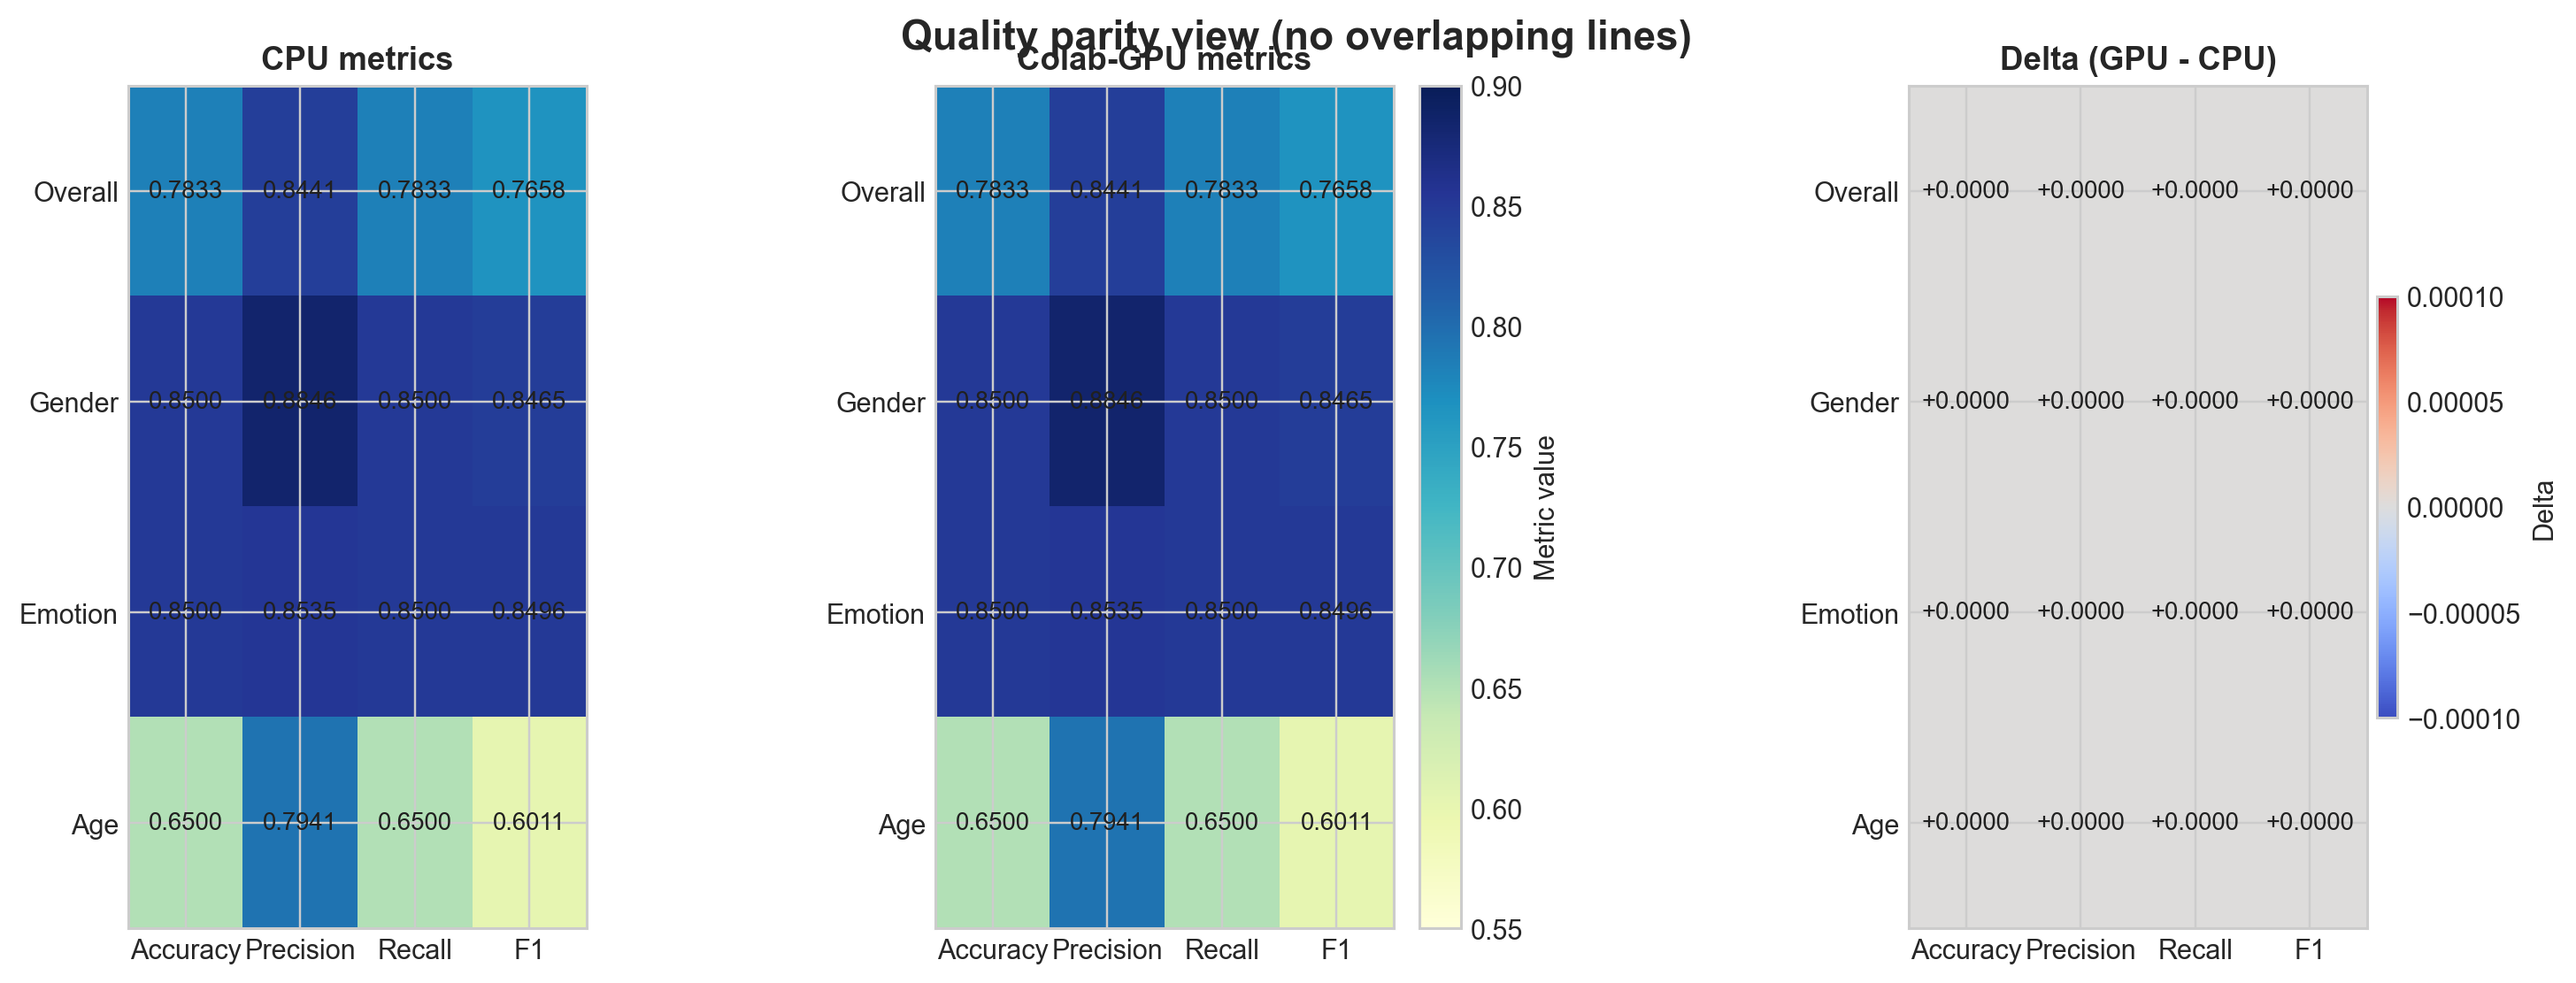
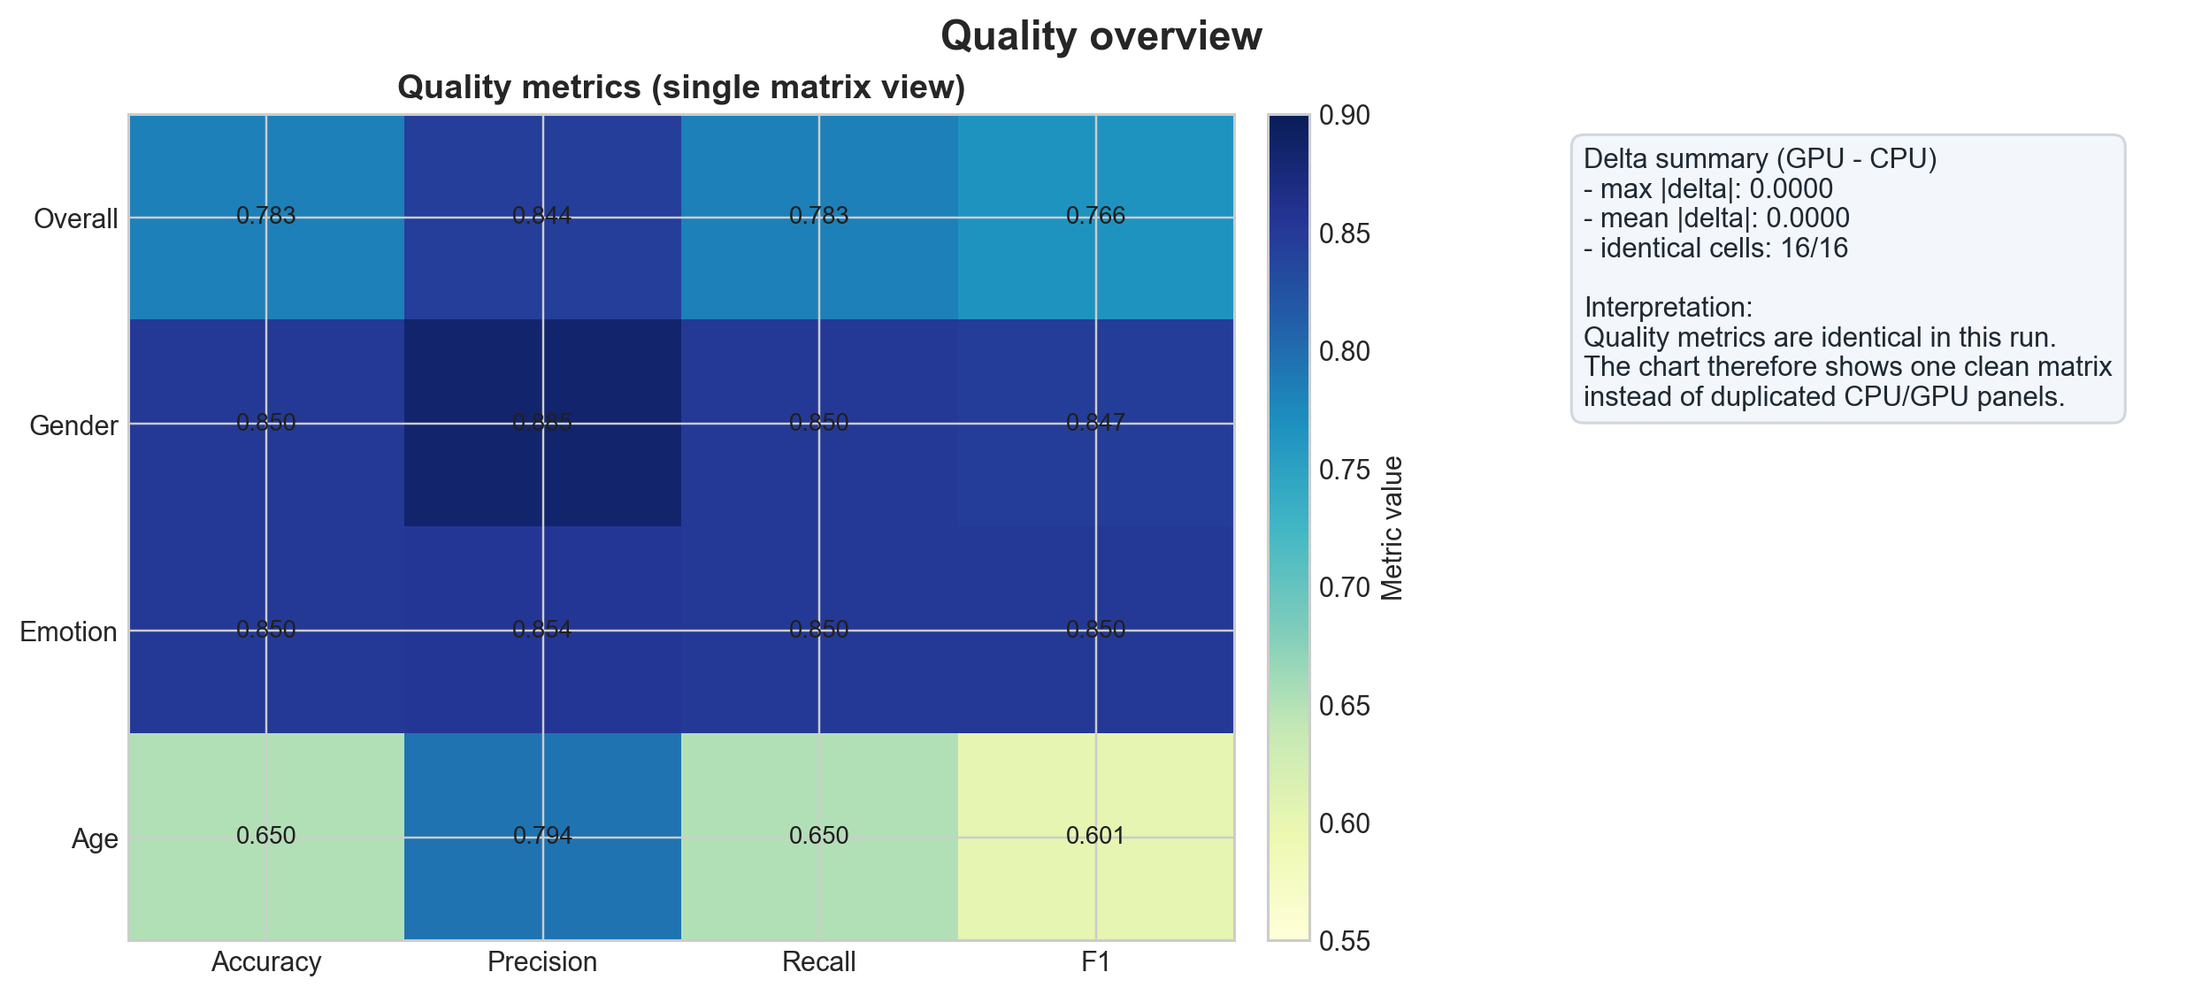
Polish comparison visuals and standardize project text to English.
Simplify the quality panel to remove redundant zero-delta clutter and update report/notebook wording for presentation clarity.

diff --git a/results/generate_comparison_charts.py b/results/generate_comparison_charts.py
@@ -5,7 +5,6 @@ from pathlib import Path
 import matplotlib.pyplot as plt
 import numpy as np
 import pandas as pd
-from matplotlib.colors import TwoSlopeNorm
 
 SCOPE_ORDER = ["overall", "gender", "emotion", "age"]
 METRIC_ORDER = ["accuracy", "precision", "recall", "f1"]
@@ -33,52 +32,61 @@ def timing_summary(series: pd.Series) -> dict[str, float]:
     }
 
 
-def _draw_heatmap(
-    ax: plt.Axes,
-    values: pd.DataFrame,
-    title: str,
-    cmap: str,
-    fmt: str,
-    norm: TwoSlopeNorm | None = None,
-    vmin: float | None = None,
-    vmax: float | None = None,
-) -> plt.AxesImage:
-    image = ax.imshow(values.to_numpy(), cmap=cmap, aspect="auto", norm=norm, vmin=vmin, vmax=vmax)
-    ax.set_title(title, fontsize=12, weight="bold")
-    ax.set_xticks(np.arange(len(values.columns)))
-    ax.set_xticklabels([column.title() for column in values.columns], fontsize=10)
-    ax.set_yticks(np.arange(len(values.index)))
-    ax.set_yticklabels([index.title() for index in values.index], fontsize=10)
-
-    for row in range(values.shape[0]):
-        for col in range(values.shape[1]):
-            value = values.iloc[row, col]
-            ax.text(col, row, format(value, fmt), ha="center", va="center", fontsize=9, color="#202020")
-    return image
-
-
 def save_quality_parity_panel(cpu_metrics: pd.DataFrame, gpu_metrics: pd.DataFrame, output_path: Path) -> None:
     cpu = cpu_metrics.set_index("scope").loc[SCOPE_ORDER, METRIC_ORDER]
     gpu = gpu_metrics.set_index("scope").loc[SCOPE_ORDER, METRIC_ORDER]
     delta = gpu - cpu
-    max_abs = max(1e-4, float(np.abs(delta.to_numpy()).max()))
+    abs_delta = np.abs(delta.to_numpy())
+    max_abs = float(abs_delta.max())
+    mean_abs = float(abs_delta.mean())
+    same_cells = int(np.sum(abs_delta < 1e-12))
+    total_cells = int(abs_delta.size)
 
-    fig, axes = plt.subplots(1, 3, figsize=(13.2, 4.8), gridspec_kw={"wspace": 0.28}, constrained_layout=True)
+    # If both runs are identical, show only one matrix to reduce visual clutter.
+    values = cpu if np.allclose(cpu.to_numpy(), gpu.to_numpy(), atol=1e-12) else gpu
+    matrix_title = "Quality metrics (single matrix view)"
 
-    im_abs_1 = _draw_heatmap(axes[0], cpu, "CPU metrics", cmap="YlGnBu", fmt=".4f", vmin=0.55, vmax=0.90)
-    _draw_heatmap(axes[1], gpu, "Colab-GPU metrics", cmap="YlGnBu", fmt=".4f", vmin=0.55, vmax=0.90)
-    im_delta = _draw_heatmap(
-        axes[2],
-        delta,
-        "Delta (GPU - CPU)",
-        cmap="coolwarm",
-        fmt="+.4f",
-        norm=TwoSlopeNorm(vmin=-max_abs, vcenter=0.0, vmax=max_abs),
+    fig = plt.figure(figsize=(11.2, 5.0), constrained_layout=True)
+    grid = fig.add_gridspec(1, 2, width_ratios=[1.9, 1.05], wspace=0.15)
+    ax_matrix = fig.add_subplot(grid[0, 0])
+    ax_info = fig.add_subplot(grid[0, 1])
+
+    image = ax_matrix.imshow(values.to_numpy(), cmap="YlGnBu", aspect="auto", vmin=0.55, vmax=0.90)
+    ax_matrix.set_title(matrix_title, fontsize=12.5, weight="bold")
+    ax_matrix.set_xticks(np.arange(len(values.columns)))
+    ax_matrix.set_xticklabels([column.title() for column in values.columns], fontsize=10)
+    ax_matrix.set_yticks(np.arange(len(values.index)))
+    ax_matrix.set_yticklabels([index.title() for index in values.index], fontsize=10)
+
+    for row in range(values.shape[0]):
+        for col in range(values.shape[1]):
+            ax_matrix.text(col, row, f"{values.iloc[row, col]:.3f}", ha="center", va="center", fontsize=9, color="#202020")
+
+    fig.colorbar(image, ax=ax_matrix, fraction=0.046, pad=0.03, label="Metric value")
+
+    ax_info.axis("off")
+    summary_text = (
+        "Delta summary (GPU - CPU)\n"
+        f"- max |delta|: {max_abs:.4f}\n"
+        f"- mean |delta|: {mean_abs:.4f}\n"
+        f"- identical cells: {same_cells}/{total_cells}\n\n"
+        "Interpretation:\n"
+        "Quality metrics are identical in this run.\n"
+        "The chart therefore shows one clean matrix\n"
+        "instead of duplicated CPU/GPU panels."
+    )
+    ax_info.text(
+        0.02,
+        0.96,
+        summary_text,
+        va="top",
+        ha="left",
+        fontsize=10.2,
+        color="#1f2933",
+        bbox={"boxstyle": "round,pad=0.45", "facecolor": "#f3f6fa", "edgecolor": "#d0d7de"},
     )
 
-    fig.colorbar(im_abs_1, ax=axes[:2], fraction=0.046, pad=0.02, label="Metric value")
-    fig.colorbar(im_delta, ax=axes[2], fraction=0.046, pad=0.02, label="Delta")
-    fig.suptitle("Quality parity view (no overlapping lines)", fontsize=15, weight="bold", y=1.02)
+    fig.suptitle("Quality overview", fontsize=15, weight="bold")
     fig.savefig(output_path, dpi=220, bbox_inches="tight")
     plt.close(fig)
 

diff --git a/results/comparison_cpu_vs_colab.md b/results/comparison_cpu_vs_colab.md
@@ -1,12 +1,12 @@
-# CPU vs. Colab-GPU Vergleichsbericht
+# CPU vs. Colab-GPU Comparison Report
 
-## Datengrundlage
+## Data Basis
 
-- CPU-Quelle: `C:\Users\danie\PycharmProjects\age-gender-emotion-edge\results\Results CPU PYCHARM`
-- GPU-Quelle: `C:\Users\danie\PycharmProjects\age-gender-emotion-edge\results\RESULTS GPU TF Google Collab`
-- Grundlage: identisches Testset mit `20` Bildern und identischer Label-Struktur.
+- CPU source: `C:\Users\danie\PycharmProjects\age-gender-emotion-edge\results\Results CPU PYCHARM`
+- GPU source: `C:\Users\danie\PycharmProjects\age-gender-emotion-edge\results\RESULTS GPU TF Google Collab`
+- Basis: identical test set with `20` images and the same label structure.
 
-## Qualitätsmetriken
+## Quality Metrics
 
 | Scope | Accuracy CPU | Accuracy GPU | Delta | Precision CPU | Precision GPU | Recall CPU | Recall GPU | F1 CPU | F1 GPU |
 |---|---:|---:|---:|---:|---:|---:|---:|---:|---:|
@@ -15,62 +15,62 @@
 | emotion | 0.8500 | 0.8500 | 0.0000 | 0.8535 | 0.8535 | 0.8500 | 0.8500 | 0.8496 | 0.8496 |
 | age | 0.6500 | 0.6500 | 0.0000 | 0.7941 | 0.7941 | 0.6500 | 0.6500 | 0.6011 | 0.6011 |
 
-## Laufzeitmetriken
+## Runtime Metrics
 
-| Kennzahl | CPU | Colab-GPU | Delta | Delta % |
+| Metric | CPU | Colab-GPU | Delta | Delta % |
 |---|---:|---:|---:|---:|
-| Mittlere Inferenzzeit pro Bild (s) | 3.4774 | 3.4467 | -0.0307 | -0.8828% |
-| Gesamtlaufzeit (20 Bilder, s) | 69.5483 | 68.9342 | -0.6141 | -0.8830% |
+| Mean inference time per image (s) | 3.4774 | 3.4467 | -0.0307 | -0.8828% |
+| Total runtime (20 images, s) | 69.5483 | 68.9342 | -0.6141 | -0.8830% |
 
-### Warm-up-bewusste Kennzahlen (aus `evaluation_results.csv`)
+### Warm-up-Aware Metrics (from `evaluation_results.csv`)
 
-| Kennzahl | CPU | Colab-GPU | Delta | Delta % |
+| Metric | CPU | Colab-GPU | Delta | Delta % |
 |---|---:|---:|---:|---:|
-| Median Inferenzzeit (s) | 0.7312 | 0.5517 | -0.1795 | -24.5466% |
-| Mittelwert ohne erstes Bild (s) | 1.1582 | 1.3810 | 0.2228 | 19.2390% |
-| Getrimmter Mittelwert ohne Min/Max (s) | 1.1907 | 1.4459 | 0.2552 | 21.4348% |
-| P90 Inferenzzeit (s) | 1.6876 | 2.4798 | 0.7922 | 46.9402% |
+| Median inference time (s) | 0.7312 | 0.5517 | -0.1795 | -24.5466% |
+| Mean excluding first image (s) | 1.1582 | 1.3810 | 0.2228 | 19.2390% |
+| Trimmed mean without min/max (s) | 1.1907 | 1.4459 | 0.2552 | 21.4348% |
+| P90 inference time (s) | 1.6876 | 2.4798 | 0.7922 | 46.9402% |
 | Min/Max (s) | 0.5734 / 47.5424 | 0.2131 / 42.6945 | - | - |
 
-## Konsistenz auf Bildebene
+## Prediction Consistency at Image Level
 
-- Vergleich der Vorhersagen über `(pred_gender, pred_emotion, pred_age_group)` für alle `20` Bilder.
-- Anzahl abweichender Vorhersage-Tupel zwischen CPU und GPU: **0**.
+- Prediction tuples `(pred_gender, pred_emotion, pred_age_group)` were compared for all `20` images.
+- Number of differing prediction tuples between CPU and GPU runs: **0**.
 
-## Abbildungen für Bericht/Anhang
+## Figures for Report/Appendix
 
-### 1) Qualitäts-Parität (CPU vs. GPU vs. Delta)
+### 1) Quality Overview (single-matrix view)
 
 ![Quality parity panel](figures_cpu_vs_colab/01_quality_parity_panel.png)
 
-*Abbildung 1 zeigt die identischen Qualitätsmetriken beider Läufe sowie die Delta-Matrix mit durchgehend `0.0000`.*
+*Figure 1 uses a single clean quality matrix plus a compact delta summary box; this avoids redundant CPU/GPU overlap when all deltas are zero.*
 
-### 2) Laufzeitprofil (Dumbbell-Plot)
+### 2) Runtime Profile (Dumbbell Plot)
 
 ![Timing dumbbell clean](figures_cpu_vs_colab/02_timing_dumbbell_clean.png)
 
-*Abbildung 2 stellt die zentralen Laufzeit-KPIs gegenüber; je Zeile ist der Abstand zwischen CPU und GPU direkt als Delta erkennbar.*
+*Figure 2 compares the main runtime KPIs and makes the per-row CPU-GPU delta directly visible.*
 
-### 3) Latenzverteilung (Box + Punkte, log-Skala)
+### 3) Latency Distribution (Box + Points, Log Scale)
 
 ![Latency boxstrip](figures_cpu_vs_colab/03_latency_distribution_boxstrip.png)
 
-*Abbildung 3 visualisiert Verteilung und Streuung der Einzelinferenzzeiten; der markierte Warm-up-Punkt liegt deutlich oberhalb des stationären Bereichs.*
+*Figure 3 visualizes distribution and spread of per-image inference times; the marked warm-up point is clearly above the steady-state range.*
 
-### 4) Latenz nach Bildreihenfolge
+### 4) Latency by Image Order
 
 ![Latency by order](figures_cpu_vs_colab/04_latency_by_image_order.png)
 
-*Abbildung 4 zeigt den zeitlichen Verlauf pro Bildindex und macht den initialen Warm-up-Effekt in beiden Läufen sichtbar.*
+*Figure 4 shows the time series by image index and highlights the initial warm-up effect in both runs.*
 
-### 5) Bildweise Laufzeitdifferenz (Lollipop)
+### 5) Per-Image Runtime Delta (Lollipop)
 
 ![Per-image delta lollipop](figures_cpu_vs_colab/05_image_delta_lollipop.png)
 
-*Abbildung 5 zeigt die Differenz `CPU - GPU` je Bild; positive Werte entsprechen einem Geschwindigkeitsvorteil der GPU.*
+*Figure 5 shows `CPU - GPU` per image; positive values indicate a GPU speed advantage.*
 
-## Fazit
+## Conclusion
 
-- Die Klassifikationsqualität ist im vorliegenden Versuch über alle berichteten Scopes identisch.
-- Unterschiede zeigen sich primär im Laufzeitverhalten und sind stark vom Warm-up-Effekt beeinflusst.
-- Für belastbare Aussagen sollten End-to-End-Kennzahlen und warm-up-bereinigte Kennzahlen gemeinsam berichtet werden.
+- Classification quality is identical across all reported scopes in this experiment.
+- Observed differences are primarily runtime-related and strongly influenced by warm-up behavior.
+- For robust reporting, end-to-end metrics and warm-up-aware metrics should be presented together.
